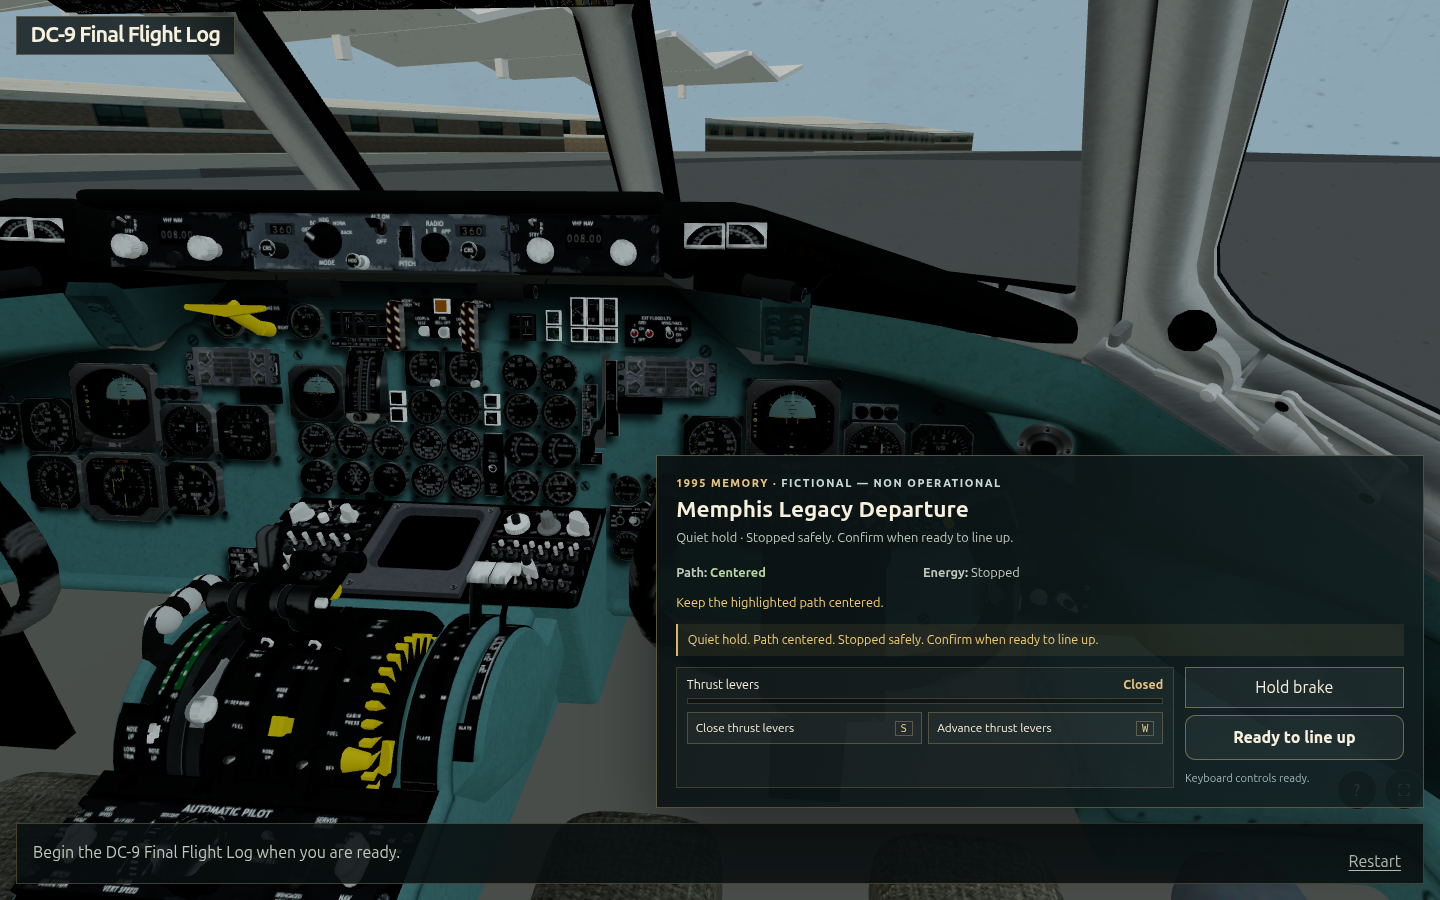
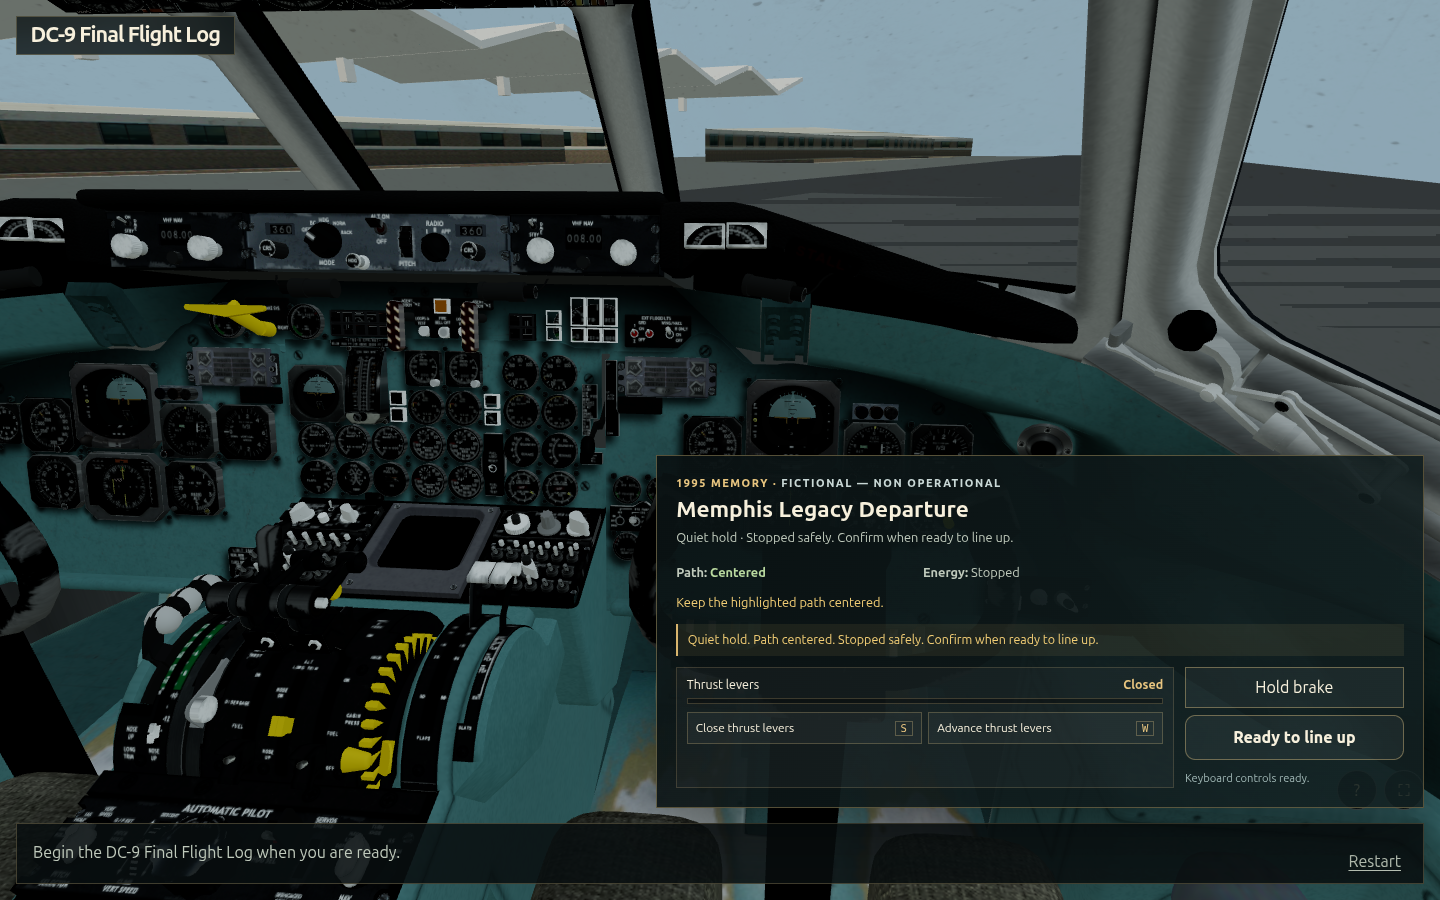
fix(dc9): lift Memphis world a gear height below the cockpit
The aircraft reference sat at pavement level, so the cockpit floor lay
below the ground plane and a pitched-up runway centerline dash sliced
through the cabin during rotation and climb. A 2.5 m ground clearance in
the world pose keeps every environment surface out of the cockpit at any
attitude, proven by a RED-first plane-distance invariant at rest, full
nose-up, and full bank. The layout module's measured windshield rig rises
to match; coverage, suites, and the GPU frame budget are unchanged, and
the thirteen evidence captures are refreshed clean.

Claude-Session: https://claude.ai/code/session_01DJ5RwLHuEnFJVJXmVyoZtU

diff --git a/src/scenes/dc9MemphisVisuals.test.ts b/src/scenes/dc9MemphisVisuals.test.ts
@@ -1,6 +1,7 @@
 import { describe, expect, it } from 'vitest'
 import type { Dc9DepartureFrame } from '../game/dc9MemphisDeparture'
 import {
+  DC9_MEMPHIS_GROUND_CLEARANCE_METERS,
   dc9MemphisWorldPose,
   sampleDc9MemphisPath,
   validateDc9MemphisAnchors,
@@ -52,10 +53,11 @@ function transformCurrentAircraftPoint(
   reducedMotion: boolean,
 ): { transformed: [number, number, number]; vibration: readonly [number, number, number] } {
   const sample = sampleDc9MemphisPath(sourceFrame.pathProgress, approvedAnchorFixture)
-  // Authored X-right/Y-forward/Z-up becomes Three X-right/Y-up/Z-back.
+  // Authored X-right/Y-forward/Z-up becomes Three X-right/Y-up/Z-back. The
+  // aircraft reference rides a gear-height clearance above the pavement.
   const aircraftPoint: [number, number, number] = [
     sample.position[0],
-    sample.position[2] * sourceFrame.altitudeProgress,
+    sample.position[2] * sourceFrame.altitudeProgress + DC9_MEMPHIS_GROUND_CLEARANCE_METERS,
     -sample.position[1],
   ]
   const pose = dc9MemphisWorldPose(sourceFrame, approvedAnchorFixture, { reducedMotion })
@@ -146,10 +148,46 @@ describe('DC-9 Memphis visual path', () => {
       pitch: 0.2,
     }), approvedAnchorFixture, { reducedMotion: true })
 
-    expect(runway.position.y).toBeCloseTo(0, 8)
+    expect(runway.position.y).toBeCloseTo(-DC9_MEMPHIS_GROUND_CLEARANCE_METERS, 8)
     expect(climb.position.y).toBeLessThan(runway.position.y)
     expect(climb.rotation.x).toBeLessThan(runway.rotation.x)
     expect(Math.abs(climb.rotation.x)).toBeLessThan(0.2)
+  })
+
+  it.each([
+    ['at rest on the ramp', frame({ pathProgress: 0, energy: 0, safeHold: true })],
+    ['full nose-up input on the roll', frame({ beat: 'takeoffRoll', pathProgress: 0.6, pitch: 1, roll: 0 })],
+    ['full bank input in the climb', frame({ beat: 'initialClimb', pathProgress: 0.9, altitudeProgress: 0.5, pitch: 1, roll: -1 })],
+  ])('keeps the pavement a gear-height clearance from the cockpit origin %s', (_label, sourceFrame) => {
+    // A runway centerline dash once pitched up through the cabin because the
+    // aircraft reference sat at pavement level. A rigid transform preserves the
+    // perpendicular distance from the rotation centre to the ground plane, so
+    // that distance must equal the authored clearance at every attitude.
+    const pose = dc9MemphisWorldPose(sourceFrame, approvedAnchorFixture, { reducedMotion: true })
+    const groundCorners: ReadonlyArray<readonly [number, number, number]> = [
+      [0, 0, 0],
+      [40, 0, -25],
+      [-30, 0, 45],
+    ]
+    const groundPoints: Array<[number, number, number]> = groundCorners.map(([x, y, z]) => {
+      const rotated = rotateByQuaternion([x, y, z], pose.quaternion)
+      return [rotated[0] + pose.position.x, rotated[1] + pose.position.y, rotated[2] + pose.position.z]
+    })
+    const edgeA = groundPoints[1]!.map((value, axis) => value - groundPoints[0]![axis]!) as [number, number, number]
+    const edgeB = groundPoints[2]!.map((value, axis) => value - groundPoints[0]![axis]!) as [number, number, number]
+    const normal: [number, number, number] = [
+      edgeA[1] * edgeB[2] - edgeA[2] * edgeB[1],
+      edgeA[2] * edgeB[0] - edgeA[0] * edgeB[2],
+      edgeA[0] * edgeB[1] - edgeA[1] * edgeB[0],
+    ]
+    const normalLength = Math.hypot(...normal)
+    const planeDistance = Math.abs(
+      normal[0] * groundPoints[0]![0]! + normal[1] * groundPoints[0]![1]! + normal[2] * groundPoints[0]![2]!,
+    ) / normalLength
+    const altitude = sampleDc9MemphisPath(sourceFrame.pathProgress, approvedAnchorFixture).position[2]
+      * Math.min(1, Math.max(0, sourceFrame.altitudeProgress))
+    expect(planeDistance).toBeCloseTo(DC9_MEMPHIS_GROUND_CLEARANCE_METERS + altitude, 6)
+    expect(DC9_MEMPHIS_GROUND_CLEARANCE_METERS).toBeGreaterThanOrEqual(2.5)
   })
 
   it('removes all nonessential vibration under reduced motion', () => {

diff --git a/src/scenes/dc9MemphisVisuals.ts b/src/scenes/dc9MemphisVisuals.ts
@@ -20,6 +20,16 @@ const MAX_PITCH_RADIANS = 0.18
 const MAX_ROLL_RADIANS = 0.12
 const CLIMB_PITCH_RADIANS = 0.08
 
+/**
+ * Height of the aircraft reference (the cockpit world origin) above the
+ * authored pavement, like a DC-9 riding on its gear. Without it the cockpit
+ * floor sat below the ground plane and a pitched-up runway centerline dash
+ * could rise through the cabin. A rigid transform preserves the perpendicular
+ * distance from the rotation centre to the ground plane, so this clearance
+ * keeps every environment surface out of the cockpit at any pitch or roll.
+ */
+export const DC9_MEMPHIS_GROUND_CLEARANCE_METERS = 2.5
+
 interface Vector3Value {
   x: number
   y: number
@@ -215,7 +225,7 @@ export function dc9MemphisWorldPose(
   const lateralOffset = lateralError * MAX_LATERAL_OFFSET_METERS
   const aircraftX = path.position[0] + rightX * lateralOffset
   const aircraftForward = path.position[1] + rightY * lateralOffset
-  const aircraftAltitude = path.position[2] * altitudeProgress
+  const aircraftAltitude = path.position[2] * altitudeProgress + DC9_MEMPHIS_GROUND_CLEARANCE_METERS
   const pitch = clamp(
     pitchInput * MAX_PITCH_RADIANS + altitudeProgress * CLIMB_PITCH_RADIANS,
     -MAX_PITCH_RADIANS,

diff --git a/tools/blender/cockpit_pipeline/kmem_legacy_layout.py b/tools/blender/cockpit_pipeline/kmem_legacy_layout.py
@@ -145,9 +145,12 @@ def terminal_canopy_world_bounds(spec: dict[str, Any] = TERMINAL_CANOPY) -> dict
 # Mirrors PATH_KNOTS in src/scenes/dc9MemphisVisuals.ts.
 PATH_KNOTS = (0.0, 0.12, 0.42, 0.52, 1.0)
 
-# First-officer camera rig in the aircraft-local frame (measured; see module docstring).
+# First-officer camera rig in the aircraft-local frame (measured; see module
+# docstring). The vertical offset is the authored camera height (0.70) plus the
+# runtime's DC9_MEMPHIS_GROUND_CLEARANCE_METERS (2.5) that keeps the pavement a
+# gear height below the cockpit at every attitude.
 SEAT_CAMERA = {
-    "offset": (0.45, -3.24, 0.70),
+    "offset": (0.45, -3.24, 3.20),
     "view_yaw_left_radians": 0.08133,
     "view_pitch_down_radians": 0.39514,
 }

diff --git a/tools/blender/cockpit_pipeline/tests/test_kmem_legacy_layout.py b/tools/blender/cockpit_pipeline/tests/test_kmem_legacy_layout.py
@@ -135,7 +135,7 @@ class KmemLegacyLayoutTests(unittest.TestCase):
 
     def test_route_camera_pose_matches_measured_ramp_start_rig(self):
         pose = route_camera_pose(0.0)
-        for actual, expected in zip(pose["position"], (2.073, -2.531, 0.70), strict=True):
+        for actual, expected in zip(pose["position"], (2.073, -2.531, 3.20), strict=True):
             self.assertAlmostEqual(actual, expected, places=2)
         for actual, expected in zip(pose["forward"], (-0.5436, 0.7460, -0.385), strict=True):
             self.assertAlmostEqual(actual, expected, places=2)

diff --git a/plans/0040-dc9-memphis-legacy-departure.md b/plans/0040-dc9-memphis-legacy-departure.md
@@ -155,6 +155,8 @@ Modified files:
 
 - **2026-08-28 Task 10 stale journey coverage repaired:** the two smoke tests that never re-verified after the Memphis insertion (the checkpoint run was externally killed before tests 34+ reported) now pass: `DC-9 production cockpit stages the Final Flight Log` asserts the real Memphis model request, `CAM_DC9_FIRST_OFFICER_GAME`, the `rampRelease` beat, and the ≥1500 m frustum after route submission before staging Home Operations from a completed departure (the accessible-flow idiom); `complete reordered journey` plays the departure's native happy path — thrust, taxi, hold short, lineup confirmation, legacy roll, rotation, climb out — end to end under `?skip3d=1` with a 120 s budget. Browser metrics with the widened frustum are unchanged: median 16.7 ms / p95 16.7 ms headed, scene objects stable [28, 28, 28].
 
+- **2026-08-28 owner-reported climb glitch — dash through the cabin (reproduced, repaired):** the committed `1440-initial-climb.png` and `768-initial-climb.png` showed a beige runway centerline dash slicing across the cockpit interior. Cause: the aircraft reference sat at pavement level (eye 0.70 m), so the cockpit's own floor lay below the ground plane, and the climb's world pitch swung the 24 m dashes up through the cabin. Fix: `DC9_MEMPHIS_GROUND_CLEARANCE_METERS = 2.5` in `dc9MemphisVisuals.ts` lifts the aircraft reference a gear height above the pavement — a rigid transform preserves the perpendicular distance from the rotation centre to the ground plane, so no environment surface can reach the cockpit at any pitch or roll. RED-first Vitest proves the plane distance equals clearance plus altitude at rest, full nose-up, and full bank (564 tests green); the layout module's measured rig rose to eye z 3.20 with windshield coverage unchanged (74.8/83.2/97.3%). Evidence re-captured headed: climb views clean at every width, ramp start reads slightly from above like a real flight deck, frame budget unchanged (median/p95 16.7 ms, objects [28, 28, 28]), Memphis spec 7/7.
+
 ## Decision log
 
 - **2026-08-28 — West-frontage composition with right satellite arm.** Executing option 1 on `asset/dc9-memphis-terminal-composition`: `ConcourseB.obj` (−242, 250, rot 0) and `ConcourseB_2.obj` (−200, 385, rot 90) form a continuous Concourse B frontage lining the west side of the departure corridor — readable dead ahead at every viewport width from ramp release and staying abeam through taxi, lineup, takeoff roll, and climb — while `ConcourseB_2e.obj` (18, 118, rot 116) stands on the ramp apron as a near-right satellite arm rewarding the look-right cue. Anchors, camera, yaw, FOV, look limits, and panel are untouched. The same stage adds the route-over-void ground fix and hardens the pure layout validator (windshield coverage, pavement shoulder, corridor clearance) so both failure modes are regression-locked.

diff --git a/TEST_REPORT.md b/TEST_REPORT.md
@@ -2237,3 +2237,9 @@ Historical checkpoint; the 2026-07-11 transition and Tripo-intake sections above
 - **Far-plane defect, reproduced then repaired.** Every DC-9 camera is authored with `zfar = 100 m`, clipping the entire environment beyond 100 m — recorded in Discoveries before repair, with the refreshed headed captures as evidence. RED: a new `waitForMemphisEnvironment` assertion demanded a published `data-dc9-camera-frustum` far plane ≥ 1500 m and failed. GREEN: `memphisDeparture` alone widens the frustum to near 0.05 / far 2500 via `applyDc9GameplayCameraTransform`; all other stages keep authored planes, and the smoke camera-state contract is untouched.
 - **Browser proof.** `e2e/dc9-memphis-departure.spec.ts`: 7/7 headless (evidence test opt-in). Frame budget headed on the GTX 1050 Ti with the widened frustum: median 16.7 ms, p95 16.7 ms (≤35 required), scene objects stable [28, 28, 28], no WebGL errors. Thirteen deterministic evidence PNGs captured headed at 375/768/1440 across ramp start, taxi turn, hold short, runway lineup, initial climb, reduced motion, and the skip3d panel — Concourse B and the canopy row read through the windshield at every width.
 - **Stale journey coverage repaired.** The two smoke tests never re-verified after the Memphis insertion (the checkpoint run was killed before they reported): the staging test now proves the real Memphis request/camera/frustum after route submission before staging Home Operations from a completed departure, and the complete reordered journey plays the departure's native happy path end to end under `?skip3d=1` (120 s budget). Both pass in isolation (3.1 m and 36.3 s); ESLint, TypeScript, 561 Vitest tests, and the production build pass.
+
+## 2026-08-28 — DC-9 Memphis ground clearance repairs the climb dash glitch
+
+- Owner reported a beige plane over the flooring/thrust quadrant in the initial-climb captures: a runway centerline dash pitched up through the cabin because the aircraft reference sat at pavement level and the cockpit floor lay below the ground plane.
+- RED: updated `dc9MemphisVisuals.test.ts` demanded an exported `DC9_MEMPHIS_GROUND_CLEARANCE_METERS` folded into the fixed-cockpit invariant plus a new plane-distance test at rest, full nose-up, and full bank (8 failed). GREEN: the world pose lifts the aircraft reference 2.5 m above the pavement; all 564 Vitest tests, ESLint, and TypeScript pass. `kmem_legacy_layout.SEAT_CAMERA` rose to eye z 3.20 (14 layout tests pass; windshield coverage unchanged at 74.8/83.2/97.3%).
+- Headed re-capture of all thirteen evidence PNGs: climb views clean at 375/768/1440 and reduced motion; the ramp-start frontage still reads at every width. `e2e/dc9-memphis-departure.spec.ts` 7/7 headless; frame budget headed unchanged at median/p95 16.7 ms with scene objects stable [28, 28, 28] and no WebGL errors.
